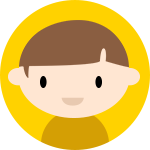
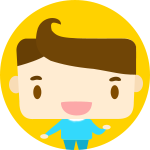
卡片阅读界面改成了点击文字直接播放语音，Card表增加了status，另外logo替换了

diff --git a/nuthabit/src/main/java/com/babycard/dao/CardDAO.java b/nuthabit/src/main/java/com/babycard/dao/CardDAO.java
@@ -121,6 +121,30 @@ public class CardDAO extends SampleDAO {
 			close(conn, ps, rs);
 		}
 	}
+	
+	public void updateCardStatus(long cardId, long status) {
+		Connection conn;
+		PreparedStatement ps;
+		ResultSet rs;
+		conn = null;
+		ps = null;
+		rs = null;
+		Card c = null;
+
+		try {
+			conn = getConnection();
+			ps = conn.prepareStatement("update  baby_card set status=? where cardId=? ");
+			ps.setLong(1, status);
+			ps.setLong(2, cardId);
+			ps.executeUpdate();
+
+		} catch (Exception e) {
+			// TODO Auto-generated catch block
+			e.printStackTrace();
+		} finally {
+			close(conn, ps, rs);
+		}
+	}
 
 	public void updateCardTag(long cardId, long tagId) {
 		Connection conn;
@@ -1397,7 +1421,7 @@ public class CardDAO extends SampleDAO {
 
 	public static void main(String arg[]) {
 		CardDAO dao = new CardDAO();
-		dao.updateCardDetail(2139, "好可爱");
+		dao.updateCardStatus(2225, 0);
 		// System.out.println(dao.getAllCardListOrderByFavCount().size());
 //		Collection coll = dao.getAllCardList();
 //		Iterator it = coll.iterator();

diff --git a/nuthabit/src/main/java/com/babycard/servlet/CardDetailServlet.java b/nuthabit/src/main/java/com/babycard/servlet/CardDetailServlet.java
@@ -45,6 +45,15 @@ public class CardDetailServlet extends HttpServlet {
 		if (request.getParameter("cardId") != null) {
 			cardId = Long.parseLong(request.getParameter("cardId"));
 		}
+		
+		if (request.getParameter("status") != null) {
+			if (k.getGuanlibiaoji() == 1) {
+				new CardDAO().updateCardStatus(cardId, Long.parseLong(request.getParameter("status")));
+			} else {
+				System.out.println("为什么会有人来改：" + cardId);
+			}
+		}
+
 
 		Card c = dao.getCardByCardId(cardId);
 		if (c.getkId() != k.getId() && k.getGuanlibiaoji() == 0) {
@@ -52,6 +61,7 @@ public class CardDetailServlet extends HttpServlet {
 			return;
 		}
 
+		
 		if (request.getParameter("cleansound") != null) {
 			new CardPicDAO().updateSound(Long.parseLong(request.getParameter("picId")), "");
 		}

diff --git a/nuthabit/src/main/java/com/babycard/dao/Card.java b/nuthabit/src/main/java/com/babycard/dao/Card.java
@@ -15,6 +15,15 @@ public class Card {
 	private String defaultPic = null;
 	private long kId = 0;
 	private String detail = null;
+	private long status = 0;
+
+	public long getStatus() {
+		return status;
+	}
+
+	public void setStatus(long status) {
+		this.status = status;
+	}
 
 	public String getDetail() {
 		return detail;
@@ -188,6 +197,7 @@ public class Card {
 			this.setDefaultPic(rs.getString("defaultPic"));
 			this.setkId(rs.getLong("kId"));
 			this.setDetail(rs.getString("detail"));
+			this.setStatus(rs.getLong("status"));
 		} catch (SQLException e) {
 			// TODO Auto-generated catch block
 			e.printStackTrace();
